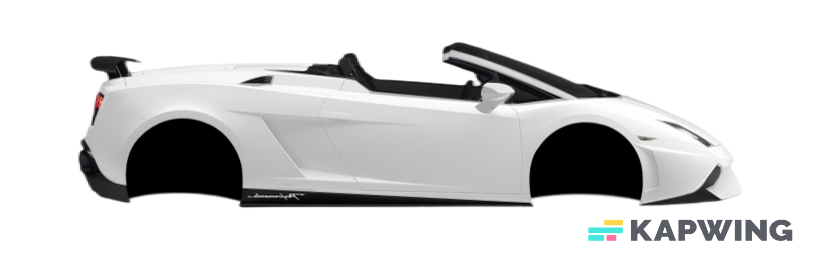
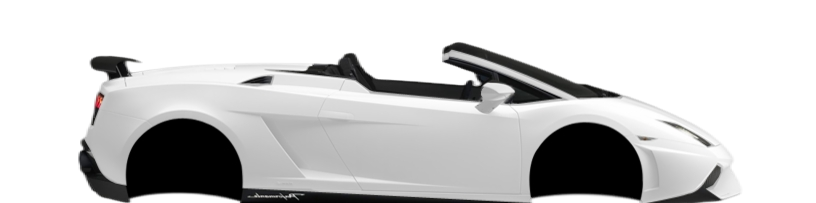
commit

diff --git a/style.css b/style.css
@@ -20,7 +20,7 @@
     left: 0;
     right: 0;
     bottom: 0;
-    animation : high .1s linear infinite;
+    animation : high 1s linear infinite;
 }
 @keyframes high {
     100%{
@@ -34,7 +34,7 @@
     z-index: 1;
     top: 10px;
     left: 1350px    ;
-     animation : high1 4s linear infinite;  
+     animation : high1 10s linear infinite;  
 }
 @keyframes high1 {
     100%{
@@ -51,7 +51,7 @@
     left: 0;
     right: 0;
     z-index: 2;
-    animation : city .5s linear infinite;
+    animation : city 5s linear infinite;
 }
 @keyframes city {
     100%{
@@ -61,7 +61,7 @@
 .car{
     width: 500px;
     left: 50%;
-    bottom: 100px;
+    bottom: 140px;
     transform: translateX(-50%);
     position: absolute;
     z-index: 2;
@@ -69,7 +69,7 @@
 .car img
 {
     width: 100%;
-    animation : car .001s linear infinite;
+    animation : car 2s linear infinite;
 }
 @keyframes car {
     0%{
@@ -95,7 +95,7 @@
 .wheel img{
     width: 72px;
     height: 72px;
-    animation : wheel 0.0001s linear infinite;
+    animation : wheel 1s linear infinite;
 }
 @keyframes wheel {
     100%{

diff --git a/car.html b/car.html
@@ -14,7 +14,7 @@
         <div class="highway"></div>
         <div class="build"> </div>
         <div class="moon">
-            <img src="./tempimg/moon.png" alt="">
+            <img src="./tempimg/sun.png" alt="">
         </div>
         <div class="car">
             <img src="./tempimg/car.png">
